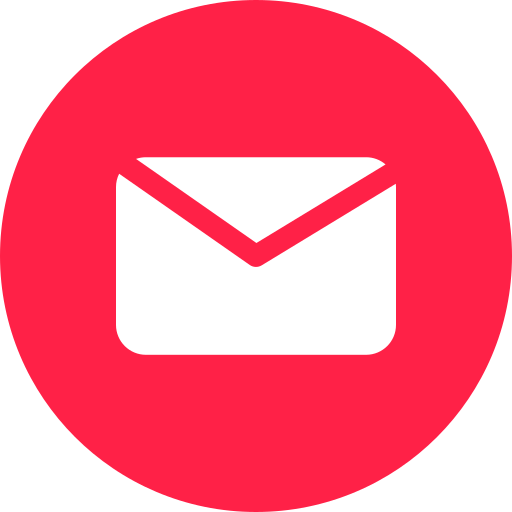
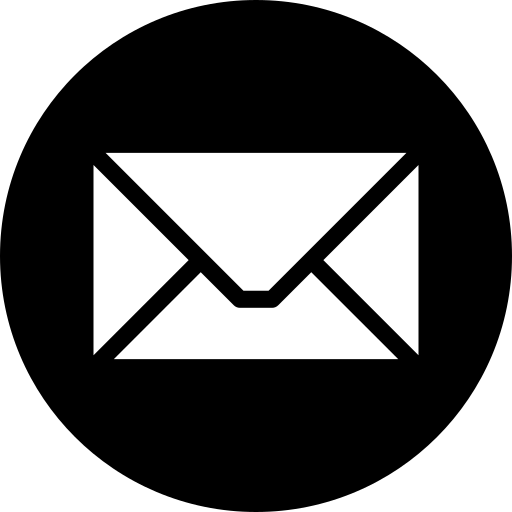
multiple design changes

diff --git a/src/App.css b/src/App.css
@@ -30,7 +30,7 @@ h1,
 h3,
 h4,
 h5 {
-  color: #4a2e1e;
+  color: black;
 }
 
 h1 {
@@ -60,22 +60,23 @@ p {
   /* box-shadow: 0 2px 4px rgba(0, 0, 0, 0.1); */
   z-index: 1000;
 }
-
 .side-social-link {
   display: flex;
   align-items: center;
   text-decoration: none;
   /* color: #333; */
-  outline: 3px solid #876e4a; /* Adjust color and width */
-  border-radius: 300px;
+  /* outline: 2px solid #876e4a; Adjust color and width */
+  border-radius: 1150%;
   transition: all 0.1s ease;
+  background-color: #f9eddc;
+  transition: all 1s ease;  /* Change duration to 0.5s for slower spin */
+
 }
 
 .side-social-link:hover {
-  outline: 3px solid #4a2e1e; /* Adjust color and width */
-  border-radius: 300px;
-  /* border-color: #ffc107; */
+  transform: rotatey(360deg) ;  /* Use rotateX for horizontal spin */
 }
+
 
 .side-social-link img {
   width: 30px; /* Set the width of the image */
@@ -133,7 +134,7 @@ a.navbar-logo:hover {
 }
 
 .navbar-links a:hover {
-  color: #4a2e1e;
+  color: black;
 }
 
 
@@ -213,7 +214,7 @@ a.navbar-logo:hover {
   margin-bottom: 4vh;
 }
 .treatment-page h1 {
-  color: #4a2e1e;
+  color: black;
   font-size: 2.5rem;
   font-weight: bold;
 }
@@ -244,6 +245,8 @@ a.navbar-logo:hover {
   font-weight: 500;
   /* font-size: smaller; */
   color:#876e4a;
+  margin-bottom: 0;
+  font-size: 18px;
 }
 .contact-page a {
   color: black;
@@ -256,8 +259,11 @@ a.navbar-logo:hover {
   position: relative;
   top: 5px;
   left: 10px;
+  border-radius: 100%;
+  background-color:white;
+
 }
-.contact-page-social{ line-height: 0.3!important;}
+.contact-page-social{ line-height: 1;}
 .map{
   position: relative;
   bottom: 10px;
@@ -270,7 +276,7 @@ a.navbar-logo:hover {
   text-align: center;
   color: #333;
   direction: rtl;
-  /* top: 3vh; */
+  top: 3vh;
   /* top: 8vh; */
   /* margin-bottom: 8vh; */
   min-height: 100vh;
@@ -291,14 +297,16 @@ a.navbar-logo:hover {
 .about-header h1 {
   font-size: 2.5rem;
   font-weight: bold;
+  color:black;
 }
 .about-header h2 {
   color: #876e4a;
   font-weight: 400;
+  font-size:20px;
 }
 
 .about-header p {
-  font-size: 1.6rem;
+  font-size: 16px;
   font-weight: normal;
 }
 
@@ -339,8 +347,12 @@ a.navbar-logo:hover {
 
 /* Footer styles */
 .contact p {
-  color: #4a2e1e;
+  color: black;
   font-size: 20px;
+}
+.contact-page-social{
+  font-size: 16px;
+
 }
 .contact a {
   font-weight: bold;
@@ -349,7 +361,7 @@ a.navbar-logo:hover {
   color: #876e4a;
 }
 .contact a:hover {
-  color: #4a2e1e;
+  color: black;
 }
 .footer {
   position: relative;
@@ -415,6 +427,7 @@ white-space: nowrap;
   overflow: hidden;
   text-align: center;
   font-weight: 500;
+  color: black;
 }
 
 section {
@@ -427,7 +440,7 @@ section {
   height: 100vh;
   position: relative;
   background-image: url("../public/hero.webp");
-  background-attachment: fixed;
+  /* background-attachment: fixed; */
   background-repeat: no-repeat;
   background-size: cover;
   background-position: center bottom;
@@ -441,7 +454,7 @@ section {
   margin-top: 10%;
   margin-left: 15%;
   margin-right: 15%;
-  box-shadow: 0 0 5px #4a2e1e; /* Add a shadow effect */
+  box-shadow: 0 0 5px black; /* Add a shadow effect */
   z-index: 1; /* Ensure the content is on top of the background image */
   backdrop-filter: blur(5px); /* Add a blur effect to the background */
 }
@@ -455,7 +468,7 @@ section {
 
 .hero-section p {
   font-size: 1.5rem;
-  color: #4a2e1e;
+  color: black;
 }
 .hero-section button {
   background-color: #FFFFF8;
@@ -483,6 +496,11 @@ section {
   margin-right: 5%;
   background-color: #FFFFF8;
   padding: 50px 0;
+}
+.decoration{
+  position: relative;
+left:0;
+top:15px;
 }
 
 .about-container {
@@ -533,7 +551,7 @@ section {
 .about-text-container .contact-link:hover {
   transition: 0.3s linear;
   /* color: #fff; */
-  background-color: #4a2e1e;
+  background-color: black;
   /* border-color: #876e4a; */
 }
 .treatments-list li{
@@ -598,7 +616,7 @@ color:#FFFFF8!important;
 }
   .treatment-card a{
     font-weight: bold;
-    color: #4a2e1e!important;
+    color: black!important;
     transition: color 0.6s ;
     font-size:larger;
 }
@@ -631,9 +649,10 @@ color:#FFFFF8!important;
     text-align: right;
   }
   .social-links .social-link img {
-    filter: brightness(0) invert(1);
+    /* filter: brightness(0) invert(1); */
     width: 1.2rem;
     height: 1.2rem;
+
   }
   /* .hero-section {
     height: 75vh;
@@ -651,7 +670,7 @@ color:#FFFFF8!important;
     margin-bottom: 20px;
   }
   .contact-section p {
-    font-size: 1em;
+    font-size: 16px;
   }
   .contact-page {
     padding: 50px 50px 50px 50px;

diff --git a/src/pages/ContactPage.js b/src/pages/ContactPage.js
@@ -5,44 +5,47 @@ export default function ContactPage() {
     <main className="contact-page">
       <h1>יצירת קשר</h1>
 
-      <p className="some-text">לתיאום טיפול או בכל שאלה, אנא פנו אליי באמצעות:</p>
+      <p className="some-text">
+        לתיאום טיפול או בכל שאלה, אנא פנו אליי באמצעות:
+      </p>
       <p className="contact-page-social">
-        <a className="phone-color" href="tel:0549794777">
-          <img src="phone.webp"  alt="Phone Number" width="32px" height="32px" />
+        <a href="tel:0549794777">
+          <img src="phone.webp" alt="Phone Number" width="28px" height="28px" />
           054-9794-777
         </a>
         <br />
         <br />
-
-        <a className="email-color" href="mailto:orenkl162@gmail.com">
-          <img src="email.webp" alt="Email Icon"  width="32px" height="32px" />
-          orenkl162@gmail.com
+        <a href="mailto:orenkl162@gmail.com">
+          <img src="email.webp" alt="Email Icon" width="28px" height="28px" />
+          Orna Klein
         </a>
         <br />
         <br />
 
-        <a className="facebook-color" href="https://www.facebook.com/profile.php?id=100010434510829&mibextid=ZbWKwL">
-          {" "}
+        <a href="https://www.facebook.com/profile.php?id=100010434510829&mibextid=ZbWKwL">
           <img
             src="facebook.webp"
             alt="Facebook Icon"
-            width="32px"
-            height="32px"
+            width="28px"
+            height="28px"
           />
-ארנה קליין - רפלקסולוגית        </a>
+          ארנה קליין - רפלקסולוגית
+        </a>
       </p>
       <br />
-      <h2>שעות פעילות</h2>
-      <p>
+      <h2>שעות פעילות
+      {/* <img className="decoration" src="ads.webp" alt="ארנה קליין" loading="lazy" width="612px" height="408px"/> */}
+      </h2>
+      <p className="contact-page-social">
         א'-ה': 9:00-17:00
         <br />
         ו': בתאום מראש
       </p>
       <br />
 
-      <h2>מקום</h2>
+      <h2>מיקום</h2>
 
-      <p>הקליניקה ממוקמת בכפר תבור, מורן 9</p>
+      <p className="contact-page-social">הקליניקה ממוקמת בכפר תבור, מורן 9</p>
 
       <Map />
     </main>
@@ -52,7 +55,7 @@ export default function ContactPage() {
 // Map component to display location
 const Map = () => (
   <iframe
-  className="map"
+    className="map"
     title="map"
     loading="async"
     src="https://www.google.com/maps/embed?pb=!1m18!1m12!1m3!1d3357.7517858995943!2d35.41062754811086!3d32.69264540609096!2m3!1f0!2f0!3f0!3m2!1i1024!2i768!4f13.1!3m3!1m2!1s0x151c45dccce75575%3A0x6e925a518af69244!2sMoran%20St%209%2C%20Kfar%20Tavor!5e0!3m2!1sen!2sil!4v1711199100102!5m2!1sen!2sil"

diff --git a/src/pages/HomePage.js b/src/pages/HomePage.js
@@ -33,18 +33,24 @@ const AboutSection = () => (
         <div className="about-image-container">
           <img src="orna.webp" alt="ארנה קליין" loading="lazy" width="400px" height="500px" />
         </div>
+        
         <div className="about-text-container">
-          <h2>קצת עליי</h2>
-          {/* <img src="logo-full.webp" alt="ארנה קליין" loading="lazy" width="240px" height="180px" /> */}
+
+          <h2>קצת עליי  <img className="decoration" src="decoration.webp" alt="ארנה קליין" loading="lazy" width="128px" height="60px"/> 
+          </h2>
           <p>
           ארנה קליין - מטפלת מוסמכת ברפלקסולוגיה ודמיון מודרך, בוגרת מכללת רידמן.
 
 <br/>בחרתי ברפלקסולוגיה מתוך אמונה עמוקה ביכולתה לתת מענה נכון למגוון מצבים ותופעות. גישתי הטיפולית משלבת צניעות וענווה, תוך הבנה שריפוי אמיתי מגיע מתוך הגוף עצמו.
           </p>
           <Link className="contact-link" to="/contact">לפרטים נוספים וקביעת תור</Link>
+          
         </div>
+        
       </div>
+      
     </div>
+    
   </section>
 );
 
@@ -87,7 +93,8 @@ export const TreatmentsSection = ({
 
   return (
     <section className="treatments-section">
-      {showTitle && <h2>טיפולים</h2>}
+      {showTitle && <h2>טיפולים  <img className="decoration" src="decoration.webp" alt="ארנה קליין" loading="lazy" width="128px" height="60px"  />
+</h2>}
       <div className="treatment-cards">
         {treatments.map((treatment, index) => (
           <button className="treatment-card" key={index}>
@@ -120,7 +127,8 @@ export const TreatmentsSection = ({
 
 const ContactSection = () => (
   <section className="contact-section">
-    <h2>יצירת קשר</h2>
+    <h2>יצירת קשר  <img className="decoration" src="decoration.webp" alt="ארנה קליין" loading="lazy" width="128px" height="60px"  />
+</h2>
     <p>כתובת: כפר תבור, מורן 9</p>
     <p>טלפון: 054-9794-777</p>
     <p>אימייל: orenkl162@gmail.com</p>

diff --git a/src/Components/SocialLinks.js b/src/Components/SocialLinks.js
@@ -3,24 +3,25 @@ export default function SocialLinks() {
   return (
     <div className="side-social-links">
       <a
-        href="mailto:orenkl162@gmail.com"
-        className={`side-social-link`}
-      >
-        <img src={"email.webp"} alt="Email" />
-      </a>
-      <a
         href="tel:054-9794-777"
         className={`side-social-link`}
       >
         <img src={"phone.webp"} alt="Phone" />
       </a>
       <a
+        href="mailto:orenkl162@gmail.com"
+        className={`side-social-link`}
+      >
+        <img src={"email.webp"} alt="Email" />
+      </a>
+      
+      <a
         href="https://api.whatsapp.com/send?phone=+9725549794777"
         target="_blank"
         rel="noreferrer"
         className={`side-social-link`}
       >
-        <img src={"whatsapp2.webp"} alt="WhatsApp" />
+        <img src={"whatsapp.webp"} alt="WhatsApp" />
       </a>
     </div>
   );

diff --git a/src/pages/Treatments.js b/src/pages/Treatments.js
@@ -17,7 +17,6 @@ export default function TreatmentsPage() {
   return (
     <main className="treatment-page">
       <h1>הטיפולים שלי</h1>
-
       <TreatmentsSection
         additionalTreatments={moreTreatments}
         showLink={false}
